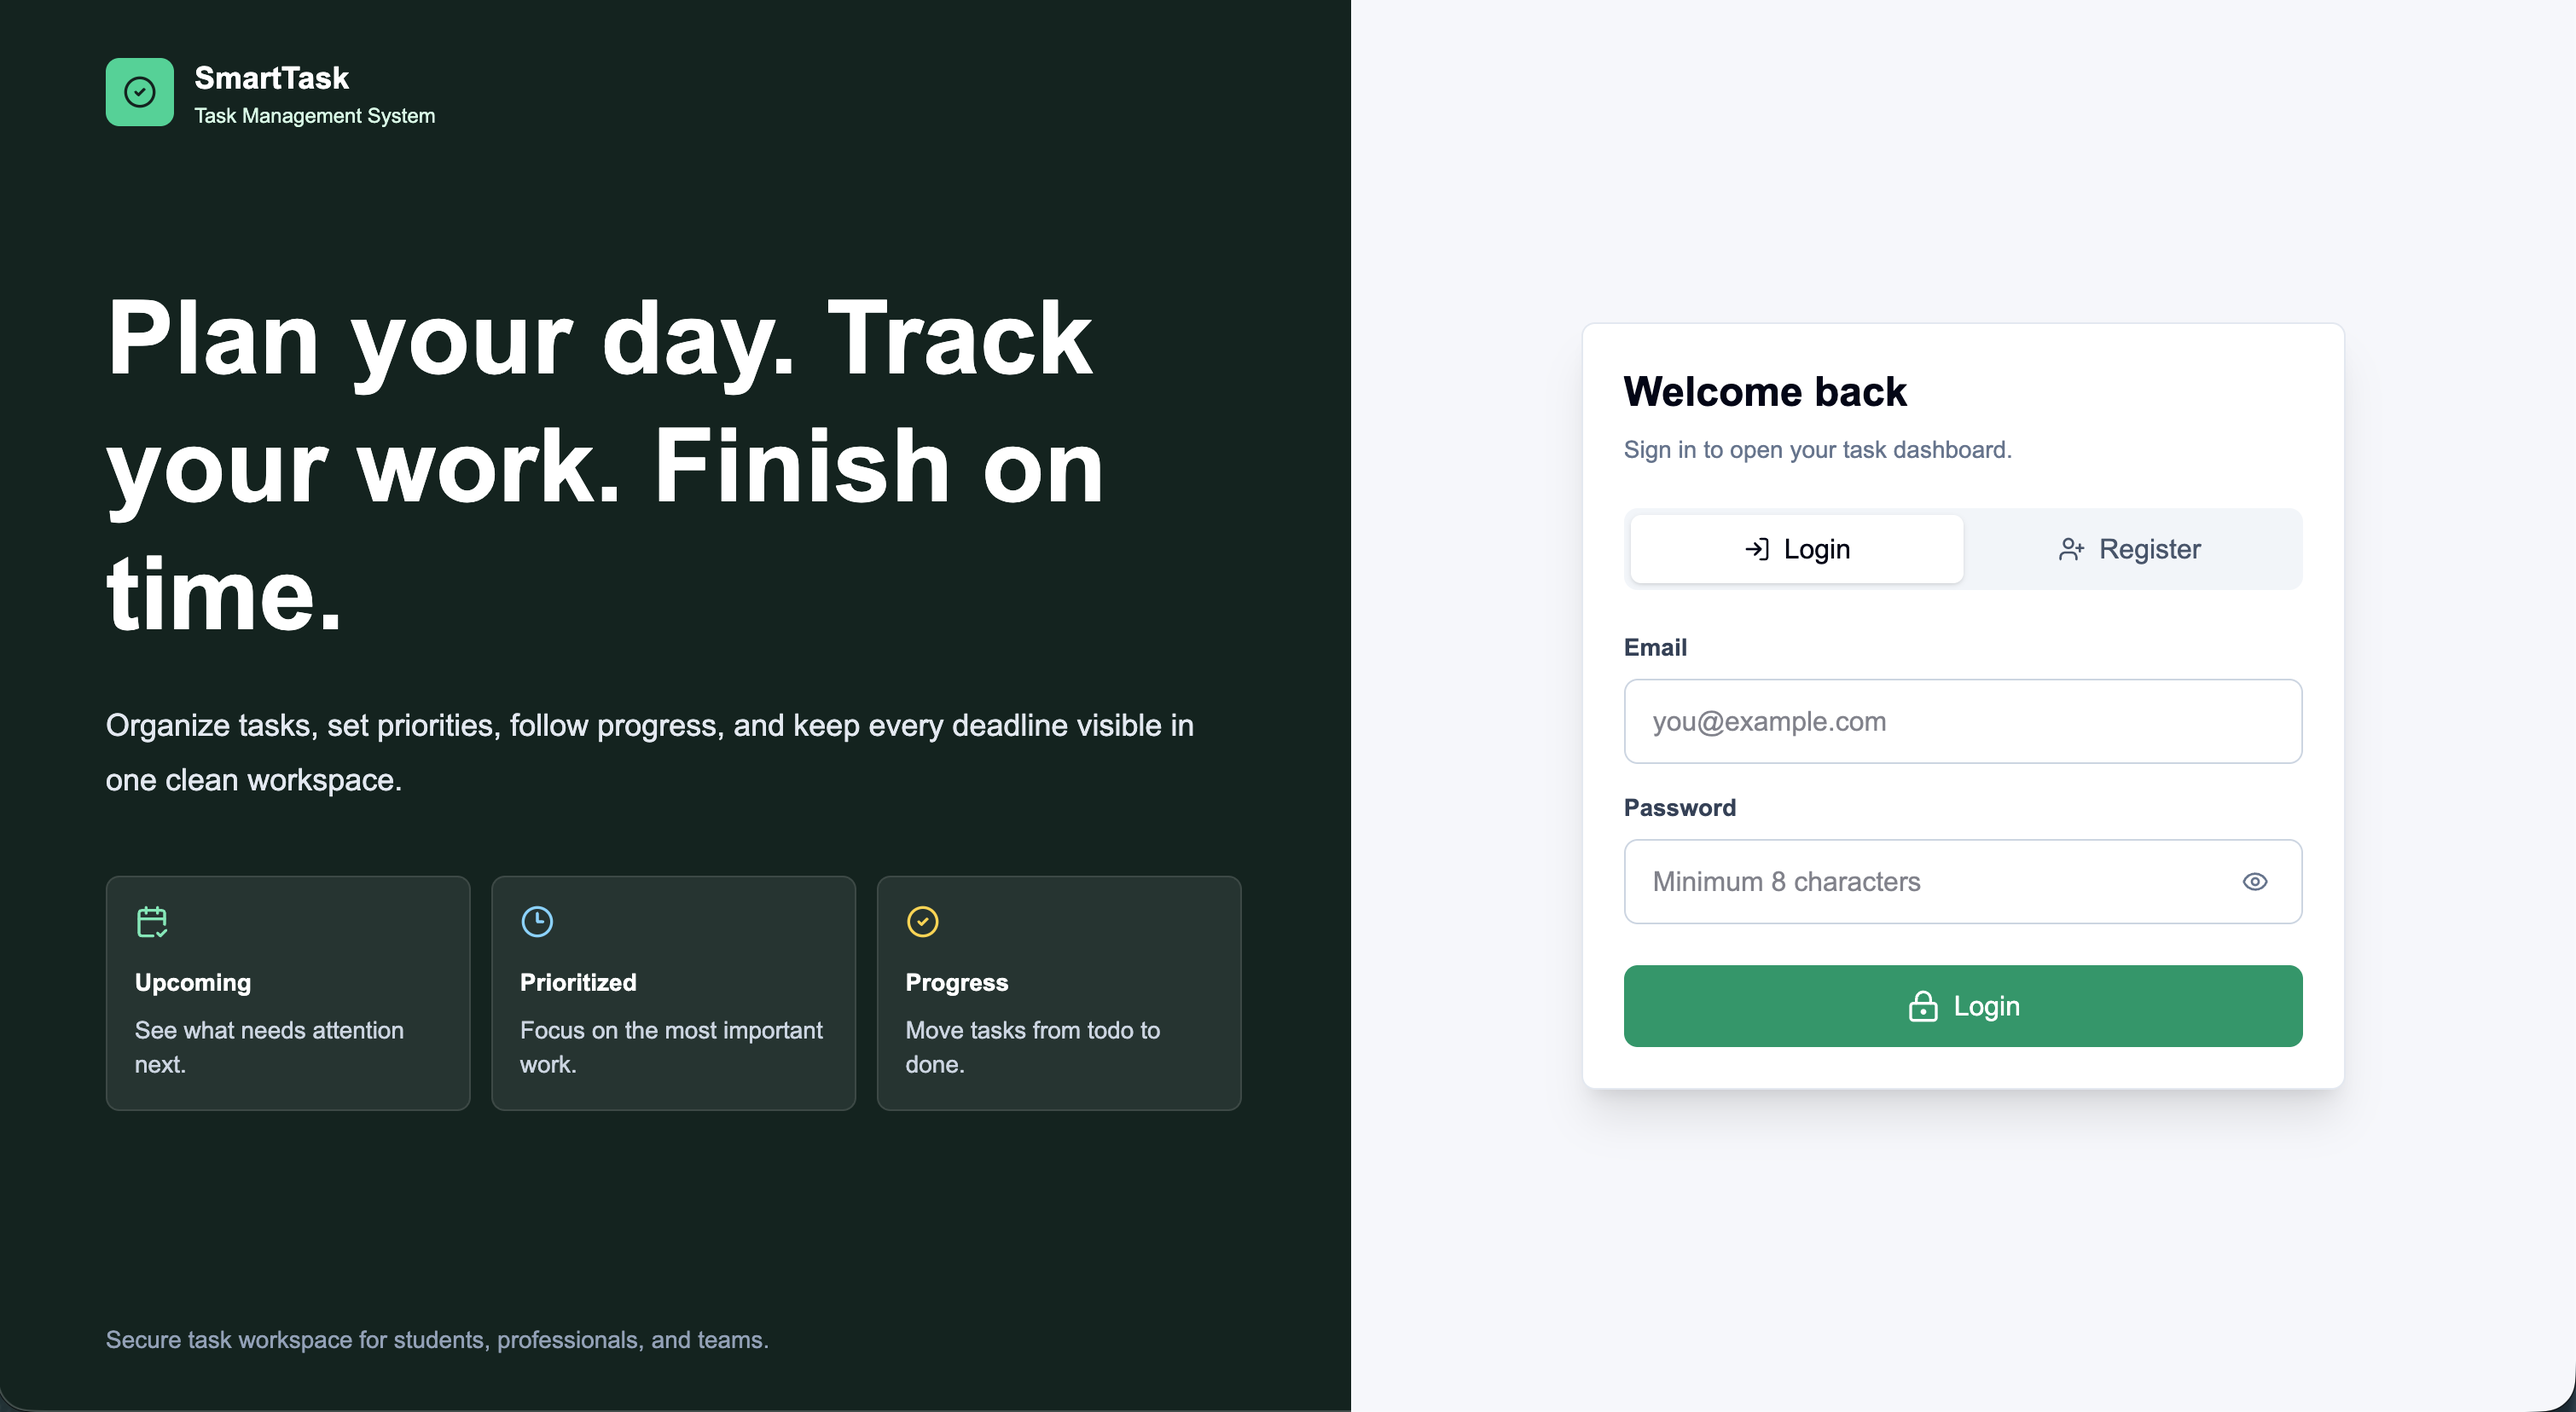
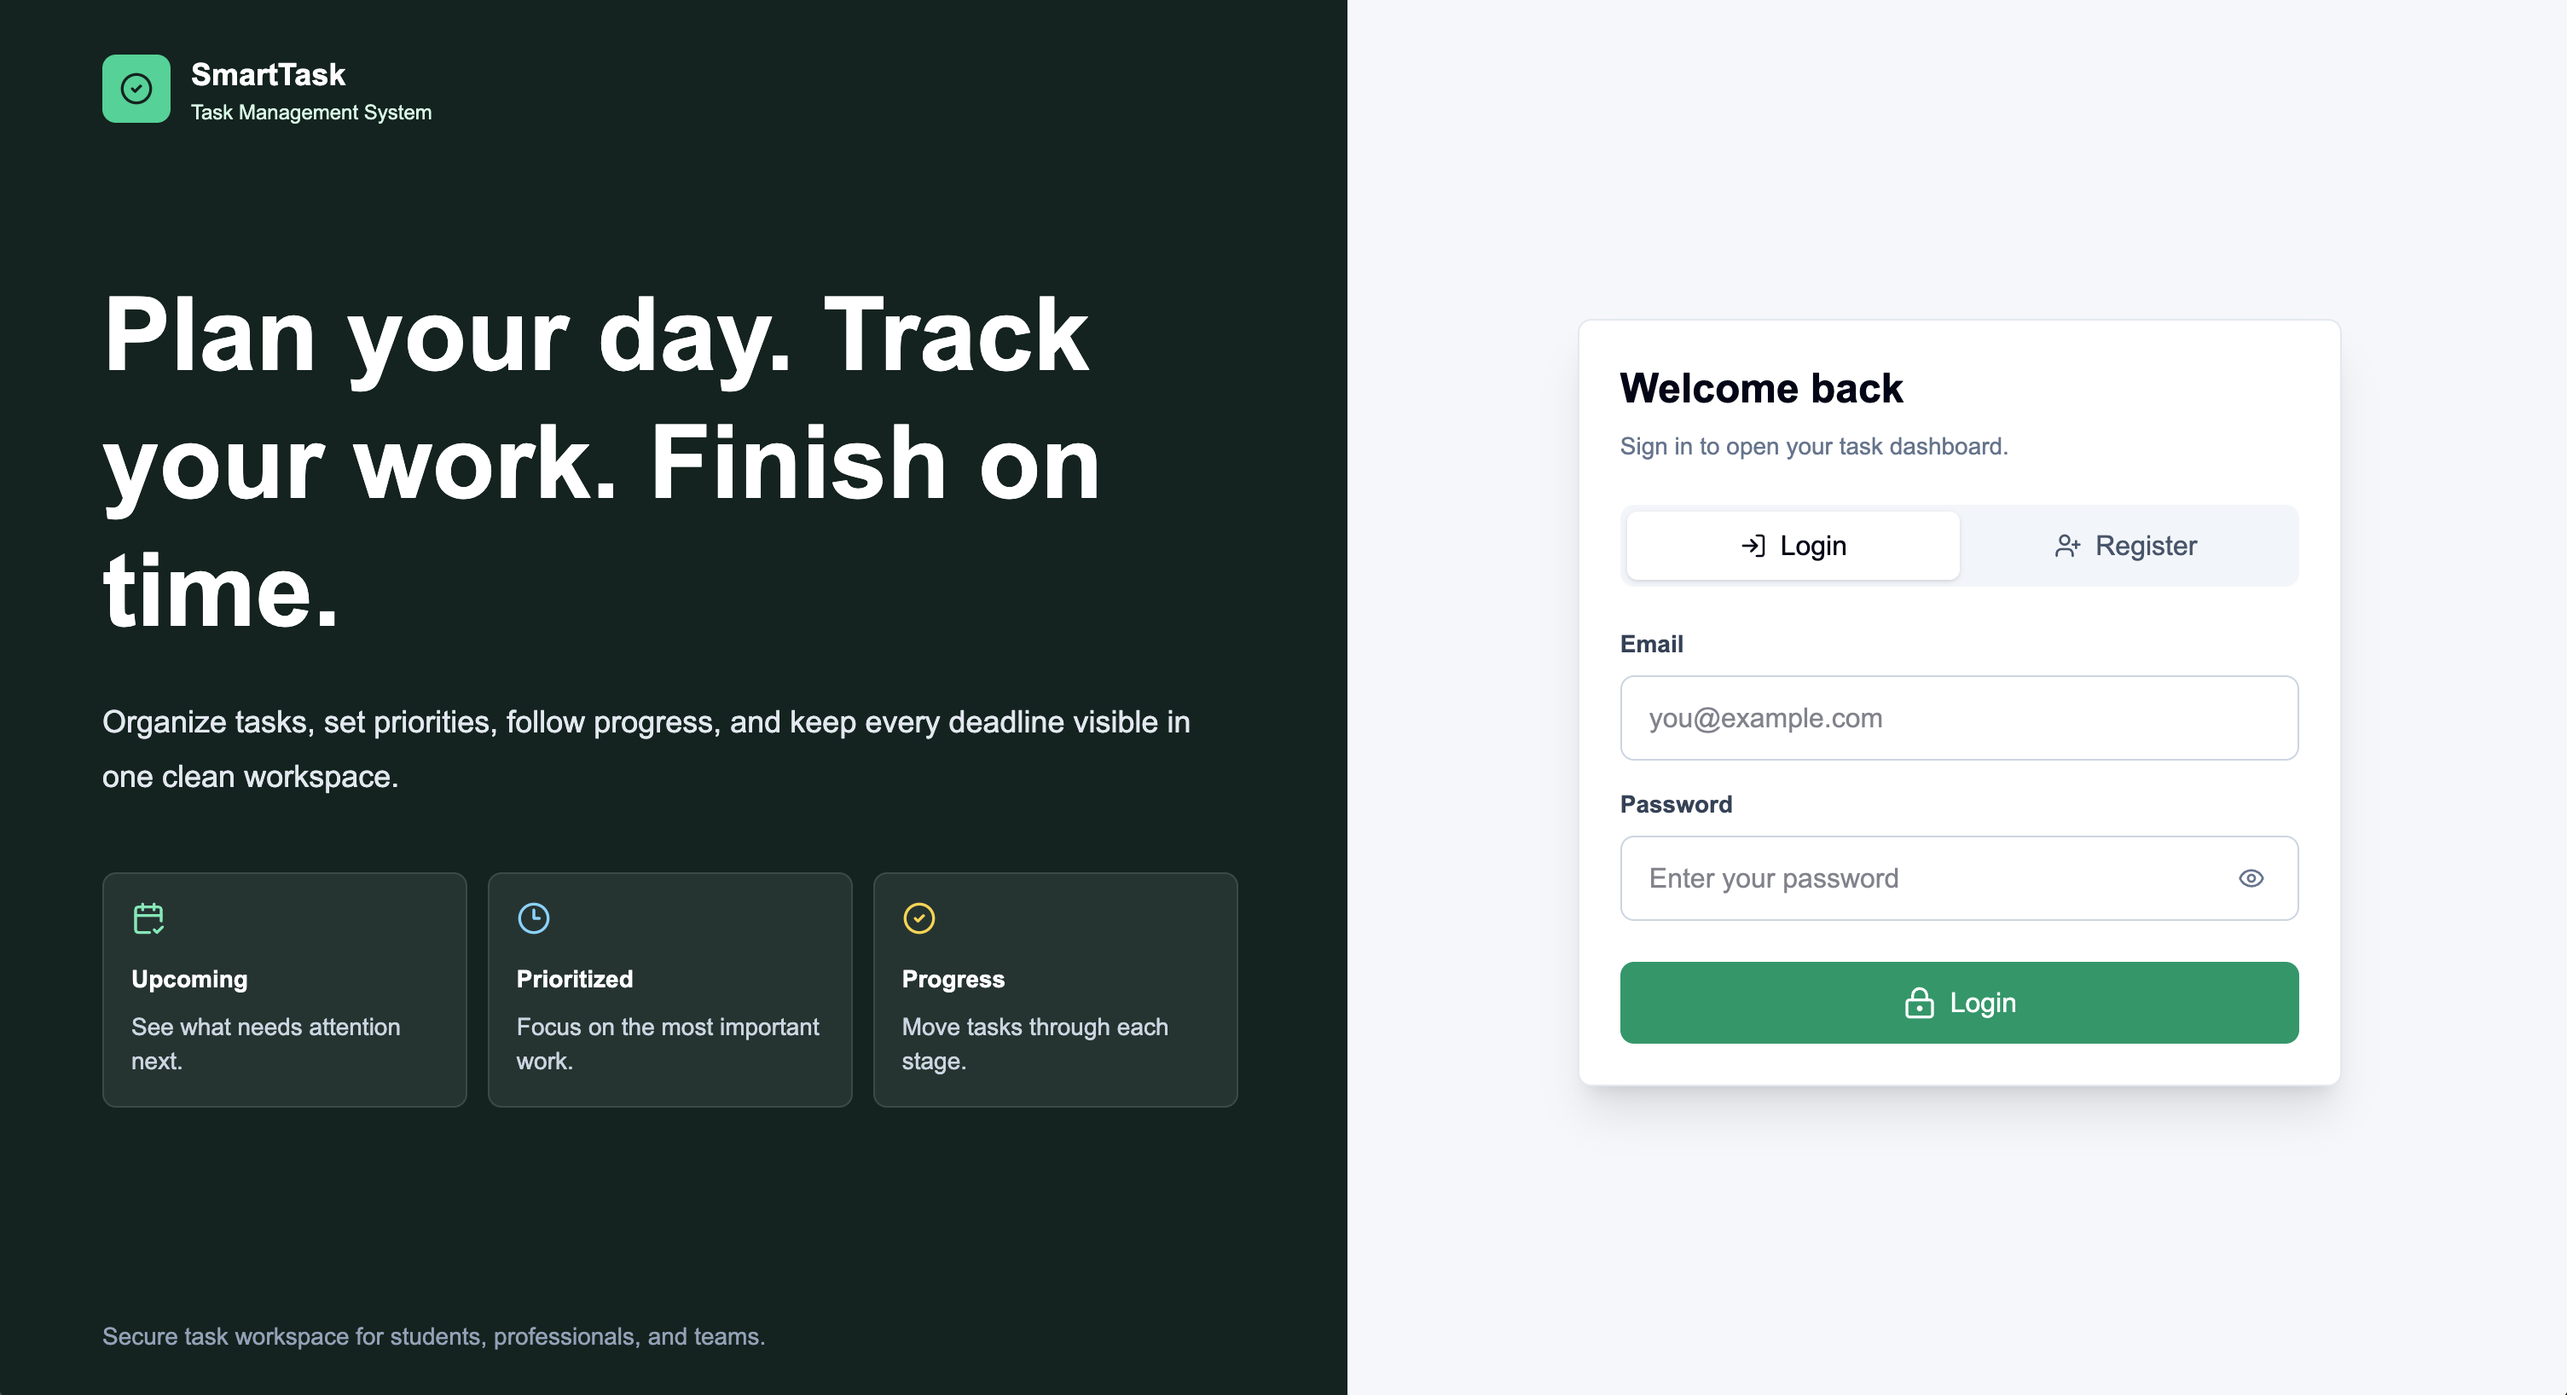
docs: update README screenshots for board workflow

diff --git a/README.md b/README.md
@@ -19,9 +19,13 @@ SmartTask is a full-stack, production-style task management system built with Ne
 - API rate limiting for general traffic and stricter auth protection
 - Startup superadmin seeding from environment variables
 - Full task CRUD over REST APIs
+- Swagger/OpenAPI API documentation with Basic Auth protection
 - Task fields: title, description, due date, priority, status, and tags
 - Smart prioritization by due date and priority
 - Search, status filters, priority filters, tag filters, and dynamic sorting
+- Sort tasks by smart priority, due date, priority, status, title, or created date
+- List view for searchable task management and Kanban-style board view for drag-and-drop workflow
+- Drag tasks between Todo, In Progress, and Done columns to update status
 - Pagination for task lists and admin user lists
 - Superadmin statistics using MongoDB aggregation
 - Responsive Next.js dashboard with loading states, validation, and toast notifications
@@ -29,7 +33,7 @@ SmartTask is a full-stack, production-style task management system built with Ne
 ## DSA Highlights
 
 - Priority Queue using a binary heap for smart task ordering
-- Merge Sort and Quick Sort for dynamic sorting
+- Merge Sort and Quick Sort for API-level dynamic sorting
 - Binary Search for exact title lookup after sorted indexing
 - Hash Maps for efficient status, priority, and tag filtering
 - Arrays and Sets for pagination, deduplication, and result intersection
@@ -40,7 +44,7 @@ SmartTask is a full-stack, production-style task management system built with Ne
 smarttask/
 ├── client/   # Next.js 16 + React 19 + TypeScript + Tailwind CSS v4
 ├── server/   # Node.js + Express + TypeScript + MongoDB + DSA modules
-├── screenshots/   # README screenshots
+├── screenshots/   # application screenshots
 └── README.md
 ```
 
@@ -112,9 +116,12 @@ CLIENT_URL=http://localhost:3000
 MONGODB_URI=mongodb://127.0.0.1:27017/smarttask
 JWT_SECRET=replace-with-a-long-random-secret
 JWT_EXPIRES_IN=7d
+API_BASE_URL=http://localhost:5000
+SWAGGER_USERNAME=admin
+SWAGGER_PASSWORD=write-your-password
 SUPER_ADMIN_NAME=SmartTask Superadmin
 SUPER_ADMIN_EMAIL=admin@smarttask.com
-SUPER_ADMIN_PASSWORD=change-this-password
+SUPER_ADMIN_PASSWORD=write-your-password
 ```
 
 If the superadmin env values are present, the backend checks at startup whether a superadmin already exists. If not, it seeds one automatically.
@@ -123,7 +130,7 @@ Default local superadmin credentials from the example above:
 
 ```bash
 Email: admin@smarttask.com
-Password: change-this-password
+Password: write-your-password
 ```
 
 Change the password before deployment.
@@ -131,6 +138,20 @@ Change the password before deployment.
 ## API Documentation
 
 Base URL: `http://localhost:5000/api`
+
+Swagger UI is available at:
+
+```bash
+http://localhost:5000/api/docs
+```
+
+The OpenAPI JSON spec is available at:
+
+```bash
+http://localhost:5000/api/docs.json
+```
+
+Swagger routes are protected with HTTP Basic Auth using `SWAGGER_USERNAME` and `SWAGGER_PASSWORD`.
 
 All API responses use one consistent envelope:
 
@@ -174,9 +195,14 @@ priority=High
 tag=college
 sortBy=smart|dueDate|priority|status|title|createdAt
 sortOrder=asc|desc
-algorithm=merge|quick
 page=1
 limit=10
+```
+
+DSA sorting method is supported at the API level for demonstration and testing:
+
+```bash
+algorithm=merge|quick
 ```
 
 ### Admin
@@ -203,6 +229,7 @@ limit=10
 - `/api` routes use a general rate limiter.
 - `/auth/login` and `/auth/register` use a stricter rate limiter for brute-force protection.
 - `/auth/session` is marked `no-store` to avoid cached session state.
+- Swagger documentation is protected with HTTP Basic Auth and timing-safe credential comparison.
 
 ## Scripts
 
@@ -230,9 +257,17 @@ pnpm typecheck
 
 ![Authentication screen](./screenshots/authentication.png)
 
-### Task Dashboard
+### Task List View
 
-![Task dashboard](./screenshots/task-dashboard.png)
+![Task list view](./screenshots/list-view.png)
+
+### Task Board View
+
+![Task board view](./screenshots/board-view.png)
+
+### Board Drag And Drop
+
+![Board drag and drop](./screenshots/board-drag-drop.png)
 
 ### New Task Modal
 
@@ -241,10 +276,6 @@ pnpm typecheck
 ### Admin Users
 
 ![Admin users](./screenshots/admin-users.png)
-
-### Mobile View
-
-![Mobile view](./screenshots/mobile-view.png)
 
 ## Deployment
 
@@ -270,9 +301,12 @@ Render backend environment variables:
 ```bash
 NODE_ENV=production
 CLIENT_URL=https://your-frontend-domain.vercel.app
+API_BASE_URL=https://your-backend-domain.onrender.com
 MONGODB_URI=your-mongodb-atlas-uri
 JWT_SECRET=your-long-random-secret
 JWT_EXPIRES_IN=7d
+SWAGGER_USERNAME=admin
+SWAGGER_PASSWORD=your-strong-docs-password
 SUPER_ADMIN_NAME=SmartTask Superadmin
 SUPER_ADMIN_EMAIL=admin@example.com
 SUPER_ADMIN_PASSWORD=your-strong-password
